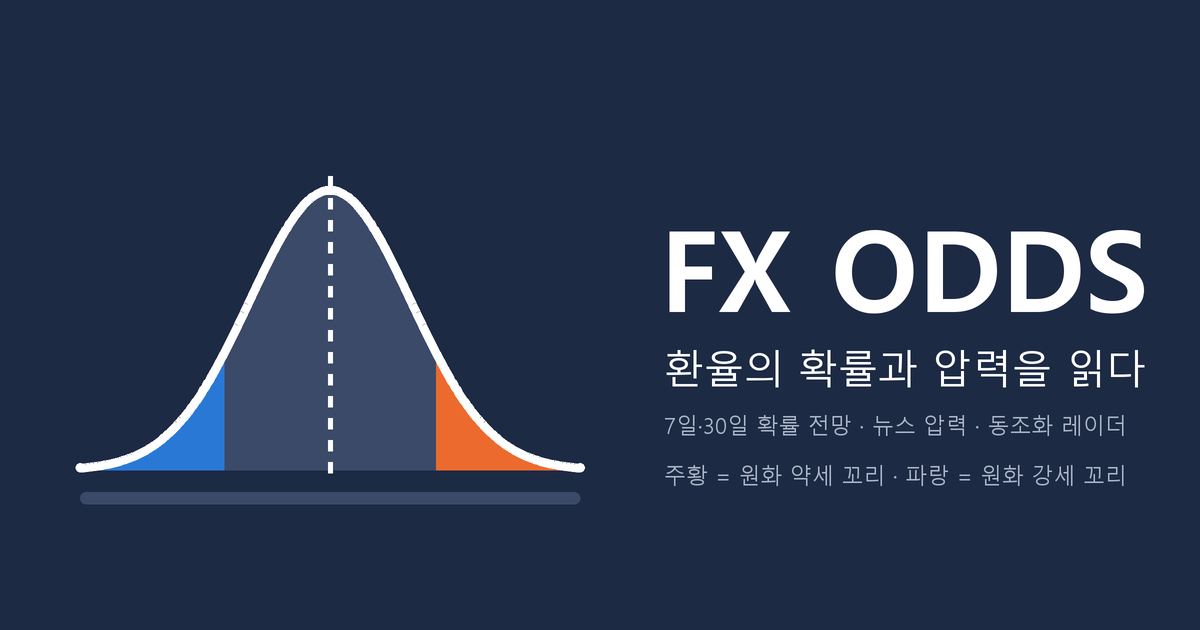
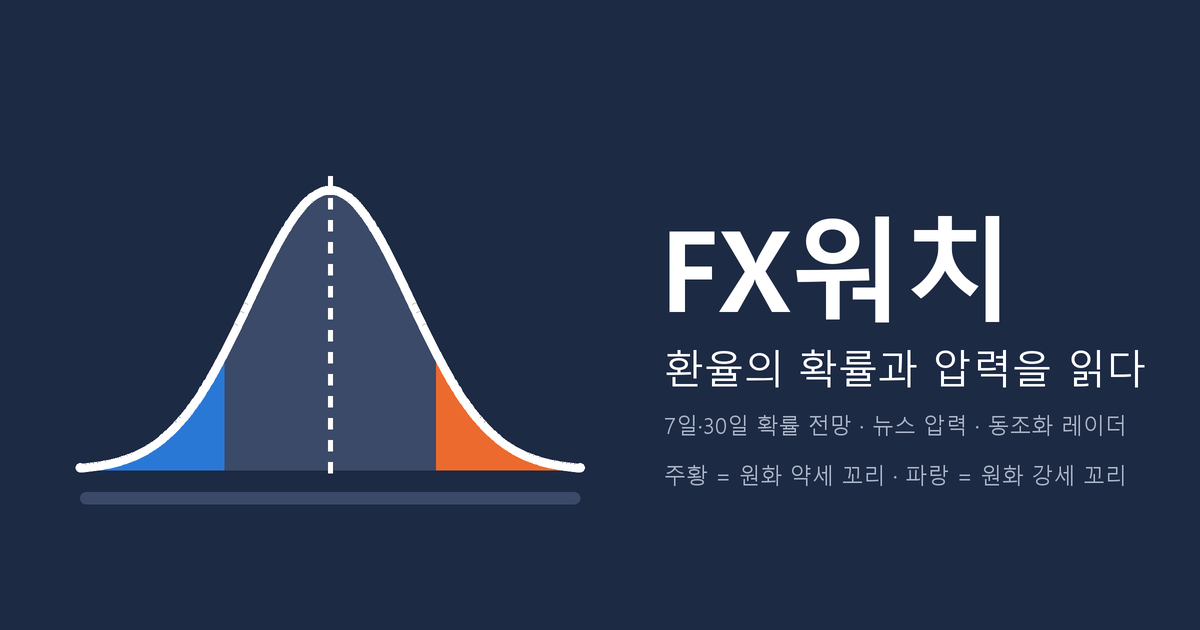
Rename display name FX ODDS -> FX워치 (repo, URL and env names unchanged)

Changed region(s): [[0.6475, 0.3317, 0.9558, 0.5127]]

diff --git a/web/index.html b/web/index.html
@@ -3,20 +3,20 @@
   <head>
     <meta charset="UTF-8" />
     <meta name="viewport" content="width=device-width, initial-scale=1" />
-    <title>FX ODDS · 환율의 확률과 압력을 읽다</title>
+    <title>FX워치 · 환율의 확률과 압력을 읽다</title>
     <meta name="description" content="원·달러 환율의 7일·30일 확률분포, 엔·위안·대만달러와의 동조화 레이더, 예측 성적표." />
     <meta property="og:type" content="website" />
-    <meta property="og:site_name" content="FX ODDS" />
-    <meta property="og:title" content="FX ODDS — 환율의 확률과 압력을 읽다" />
+    <meta property="og:site_name" content="FX워치" />
+    <meta property="og:title" content="FX워치 — 환율의 확률과 압력을 읽다" />
     <meta property="og:description" content="원·달러 7일·30일 확률 전망 · 뉴스 압력 · 동조화 레이더 · 예측 성적표." />
     <meta property="og:url" content="https://raspos.github.io/fx-odds/" />
     <meta property="og:image" content="https://raspos.github.io/fx-odds/og.png" />
     <meta property="og:image:width" content="1200" />
     <meta property="og:image:height" content="630" />
-    <meta property="og:image:alt" content="FX ODDS 로고와 확률분포 곡선" />
+    <meta property="og:image:alt" content="FX워치 로고와 확률분포 곡선" />
     <meta property="og:locale" content="ko_KR" />
     <meta name="twitter:card" content="summary_large_image" />
-    <meta name="twitter:title" content="FX ODDS — 환율의 확률과 압력을 읽다" />
+    <meta name="twitter:title" content="FX워치 — 환율의 확률과 압력을 읽다" />
     <meta name="twitter:description" content="원·달러 7일·30일 확률 전망 · 뉴스 압력 · 동조화 레이더 · 예측 성적표." />
     <meta name="twitter:image" content="https://raspos.github.io/fx-odds/og.png" />
     <link rel="icon" href="logo.svg" type="image/svg+xml" />

diff --git a/web/src/App.tsx b/web/src/App.tsx
@@ -88,14 +88,14 @@ export default function App() {
       <div className="-mx-4 flex items-center gap-1 overflow-x-auto whitespace-nowrap border-b px-4 py-1.5 text-[12px] sm:-mx-6 sm:px-6" style={{ borderColor: "var(--line)", background: "var(--surface-2)" }} aria-label="서비스 전환">
         <span style={{ color: "var(--ink-3)" }}>서비스</span>
         <a href="https://bokwatch.pages.dev/" className="rounded-full px-2.5 py-0.5" style={{ color: "var(--ink-2)" }}>BOK워치 · 금통위 금리 결정 ↗</a>
-        <span className="rounded-full px-2.5 py-0.5 font-bold" style={{ background: "var(--ink)", color: "var(--bg)" }} aria-current="page">FX ODDS · 환율</span>
+        <span className="rounded-full px-2.5 py-0.5 font-bold" style={{ background: "var(--ink)", color: "var(--bg)" }} aria-current="page">FX워치 · 환율</span>
       </div>
       <header className="sticky top-0 z-10 -mx-4 border-b px-4 py-3 sm:-mx-6 sm:px-6" style={{ background: "color-mix(in srgb, var(--bg) 92%, transparent)", borderColor: "var(--line)", backdropFilter: "blur(8px)" }}>
         <div className="flex flex-wrap items-center gap-x-4 gap-y-2">
           <a className="mr-auto flex items-center gap-2.5" href="./" title="처음 화면으로 새로고침" onClick={(e) => { e.preventDefault(); location.href = location.pathname + location.search.split("#")[0]; location.reload(); }} style={{ color: "inherit", textDecoration: "none" }}>
             <img src="logo.svg" alt="" width={40} height={40} style={{ flex: "none", display: "block" }} />
             <div>
-              <h1 className="text-xl font-black tracking-tight">FX ODDS</h1>
+              <h1 className="text-xl font-black tracking-tight">FX워치</h1>
               <p className="text-xs" style={{ color: "var(--ink-2)" }}>환율의 확률과 압력을 읽다</p>
             </div>
           </a>

diff --git a/tools/make_og.py b/tools/make_og.py
@@ -36,7 +36,7 @@ def main():
         d.line([(cx * S, y * S), (cx * S, (y + 11) * S)], fill=WHITE, width=5 * S)
     d.rounded_rectangle([(cx - 250) * S, (base + 22) * S, (cx + 250) * S, (base + 34) * S], radius=6 * S, fill=TRACK)
     f1 = ImageFont.truetype(FB, 112 * S); f2 = ImageFont.truetype(FR, 40 * S); f3 = ImageFont.truetype(FR, 28 * S)
-    d.text((660 * S, 190 * S), "FX ODDS", font=fit("FX ODDS", 112, maxw) if False else f1, fill=WHITE)
+    d.text((660 * S, 190 * S), "FX워치", font=fit("FX워치", 112, maxw) if False else f1, fill=WHITE)
     d.text((664 * S, 340 * S), "환율의 확률과 압력을 읽다", font=f2, fill=WHITE)
     def fit(text, size, maxw):  # 오른쪽 여백 안에 들어오도록 글자 크기를 줄인다
         while size > 16:

diff --git a/README.md b/README.md
@@ -1,4 +1,4 @@
-# FX ODDS — 환율의 확률과 압력을 읽다
+# FX워치 — 환율의 확률과 압력을 읽다
 
 원·달러 환율(달러당 원화값)의 7일·30일 확률분포와, 원화가 엔화·위안화·대만 달러와 얼마나 같이 움직이는지를 매일 계산해 정적 웹사이트로 공개하는 데이터저널리즘 서비스. [BOK WATCH](https://bokwatch.pages.dev/)의 설계 철학(확률 우선, 정량·정성 분리, 방법론·성적표 공개, 과거 기준일 선택)을 계승했고 기존 BOK WATCH 프로젝트는 수정하지 않았다(디자인 토큰만 참고).
 

diff --git a/docs/update-checklist.md b/docs/update-checklist.md
@@ -1,4 +1,4 @@
-# FX ODDS 갱신 체크리스트
+# FX워치 갱신 체크리스트
 
 평일 08:40·18:40 KST 자동 갱신(GitHub Actions `daily`) 뒤 사람이 확인한다. GitHub 스케줄은 몇 시간 늦거나 건너뛸 수 있으므로(2026-10-27 18:40 실행이 6시간 늦게 시작됨) 시각이 아니라 **'갱신' 시각과 자료 기준일**로 판단한다. 수시로 직접 돌릴 때는 Actions → `daily` → **Run workflow**(Re-run 아님).
 

diff --git a/docs/METHODOLOGY.md b/docs/METHODOLOGY.md
@@ -1,4 +1,4 @@
-# FX ODDS 방법론 (v0.1.0)
+# FX워치 방법론 (v0.1.0)
 
 웹사이트 SECTION 06과 동일한 내용을 문서로 남긴다.
 
